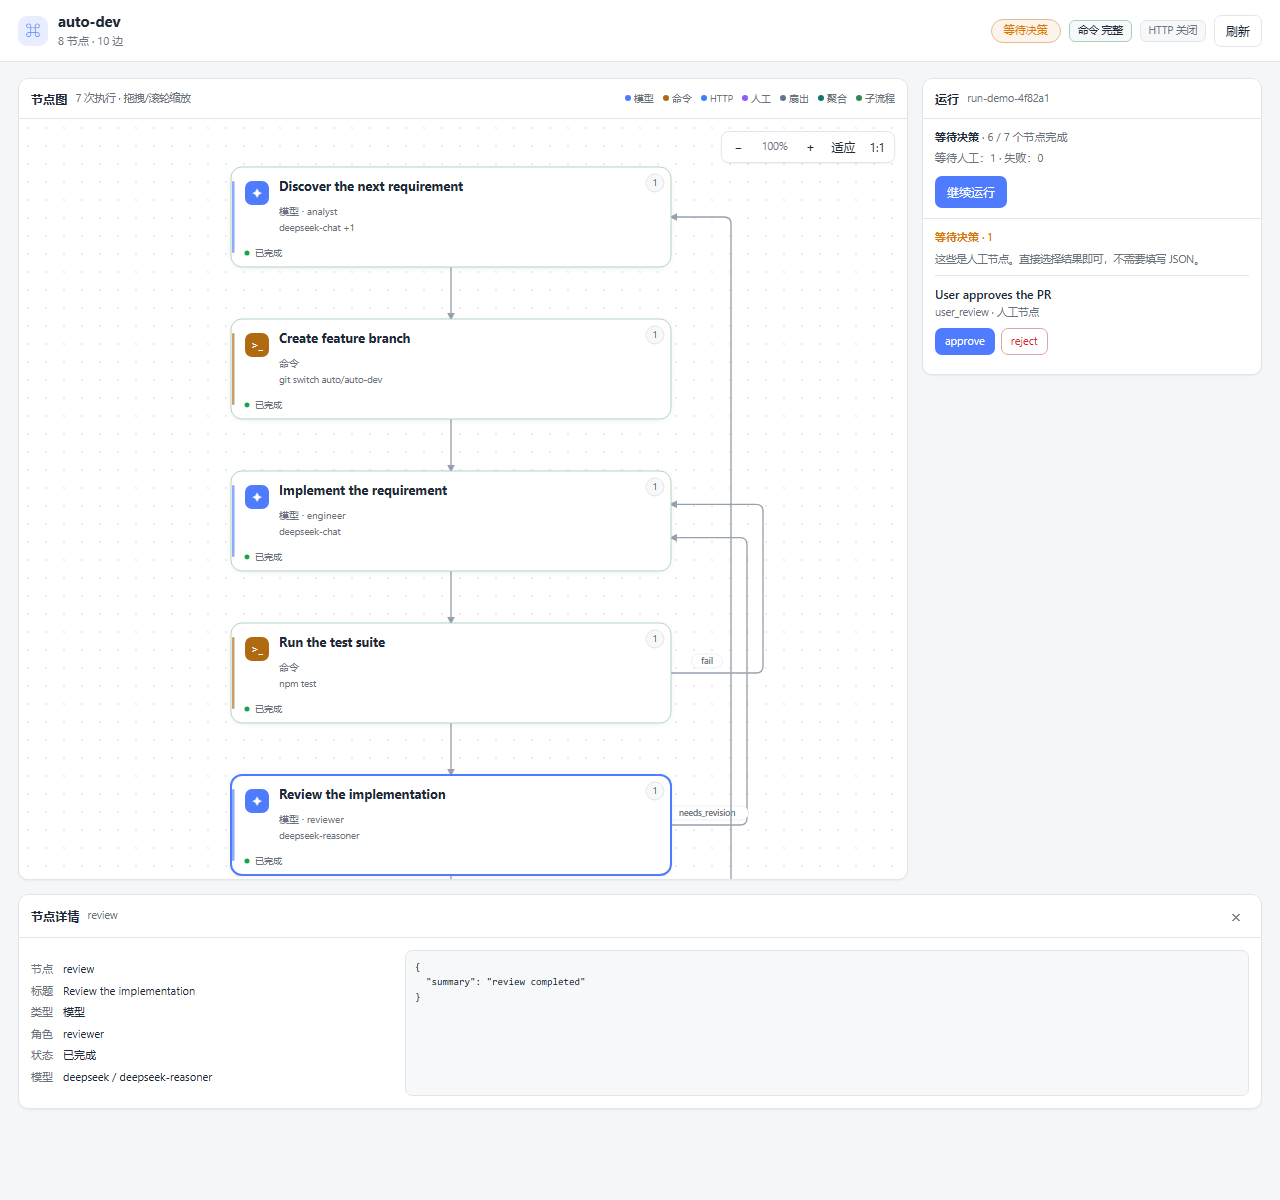
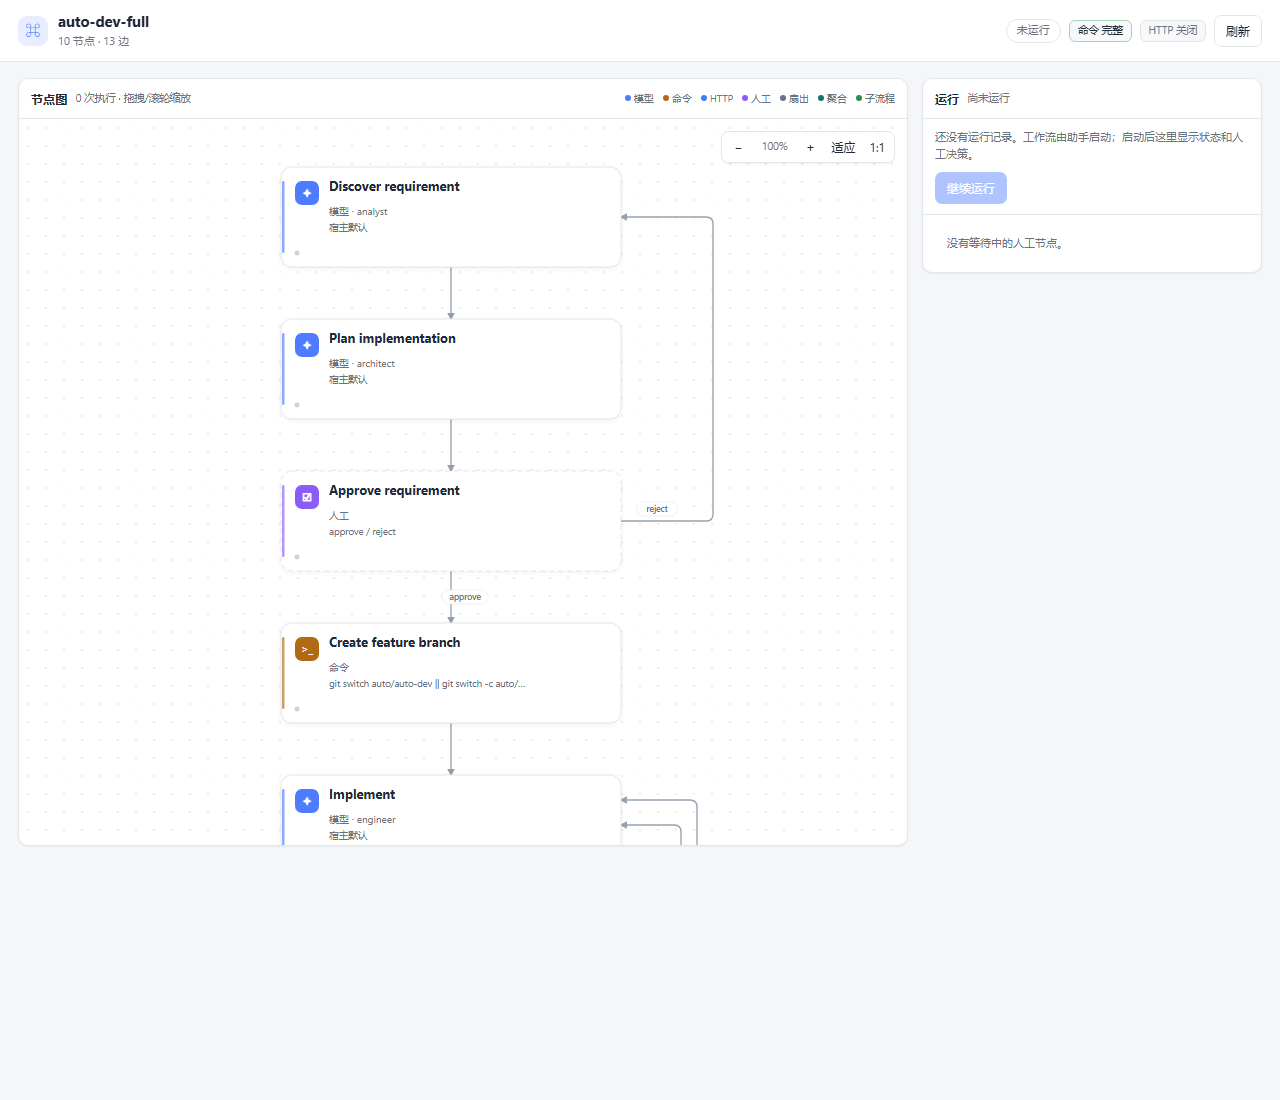
feat: complete dev workflow and narrower nodes
- Add auto-dev-full: discover, plan, requirement gate, branch, implement, tests, review loop, idempotent PR, pending-PR gate and merge.
- Narrow node cards from 440 to 340.
- Clear old runs when a workflow definition is replaced.
- Bump to 2.3.0.

diff --git a/src/v2/board.html b/src/v2/board.html
@@ -452,7 +452,7 @@ button { cursor: pointer; }
   function layout(definition) {
     const { rank, groups, incoming } = longestRanks(definition);
     orderRanks(groups, incoming);
-    const nodeWidth = 440, nodeHeight = 100, gapY = 52, gapX = 24, sidePad = 120, topPad = 28;
+    const nodeWidth = 340, nodeHeight = 100, gapY = 52, gapX = 24, sidePad = 120, topPad = 28;
     const keys = [...groups.keys()].sort((a, b) => a - b);
     const rowWidth = Math.max(nodeWidth, ...keys.map(key => groups.get(key).length * nodeWidth + (groups.get(key).length - 1) * gapX));
     const width = rowWidth + sidePad * 2;
@@ -602,7 +602,7 @@ button { cursor: pointer; }
       const token = byNode.get(node.id);
       const status = tone(token?.status);
       const style = STYLE[node.type] || { color: "#8a929e", glyph: "?" };
-      const titleLines = wrap(node.title || node.id, 366);
+      const titleLines = wrap(node.title || node.id, 266);
       const metaY = node.y + (titleLines.length > 1 ? 58 : 48);
       const detailY = metaY + 16;
       const dotColor = status === "failed" ? "var(--bad)" : status === "wait" ? "var(--warn)" : status === "done" ? "var(--ok)" : status === "running" ? "var(--brand)" : "var(--line-strong)";
@@ -617,8 +617,8 @@ button { cursor: pointer; }
       titleLines.forEach((line, index) => parts.push('<tspan x="' + (node.x + 48) + '" dy="' + (index ? 16 : 0) + '">' + esc(line) + "</tspan>"));
       parts.push("</text>");
       const meta = (TYPE[node.type] || node.type) + (node.role ? " · " + node.role : "");
-      parts.push('<text x="' + (node.x + 48) + '" y="' + metaY + '" class="node-meta">' + esc(clip(meta, 340)) + "</text>");
-      parts.push('<text x="' + (node.x + 48) + '" y="' + detailY + '" class="node-detail-text">' + esc(clip(detailText(node), 370)) + "</text>");
+      parts.push('<text x="' + (node.x + 48) + '" y="' + metaY + '" class="node-meta">' + esc(clip(meta, 260)) + "</text>");
+      parts.push('<text x="' + (node.x + 48) + '" y="' + detailY + '" class="node-detail-text">' + esc(clip(detailText(node), 290)) + "</text>");
       parts.push('<circle cx="' + (node.x + 16) + '" cy="' + (node.y + node.h - 14) + '" r="3.2" fill="' + dotColor + '" stroke="var(--panel)" stroke-width="1.4"/>');
       if (statusLabel) parts.push('<text x="' + (node.x + 24) + '" y="' + (node.y + node.h - 11) + '" class="node-status-label">' + esc(statusLabel) + "</text>");
       const count = counts.get(node.id) || 0;

diff --git a/README.md b/README.md
@@ -220,21 +220,27 @@ subworkflow node completes.
 
 ## Auto-dev reference
 
-[examples/auto-dev.json](examples/auto-dev.json) is a complete requirement→PR→
-user-decision flow:
+[examples/auto-dev-full.json](examples/auto-dev-full.json) is the complete
+development flow:
 
-`discover` → `branch` → `implement` → `npm test` → `review`
-(→ implement on `needs_revision`) → open PR → human decision → merge.
+`discover` → `plan` → `Approve requirement` (human) → `branch` → `implement` →
+`npm test` → `review` (→ implement on `needs_revision` or test failure) → open PR
+→ `Review pending PR` (human) → merge. Rejecting the requirement loops back to
+discovery; rejecting the PR loops back to implementation.
 
 It requires a command grant for `npm` and `gh`, a configured `gh` login, and a
-session whose cwd is the target repository. The flow is serial: a `team_workflow_run`
-call executes it until the human node; the web board or another run call continues
-after the decision. `gh pr create` is intentionally one-shot in this example;
-re-running on a branch that already has a PR fails the `pr` node.
+session whose cwd is the target repository. The PR step is idempotent: it commits
+when there are staged changes, creates the PR only when needed, and resolves the
+existing PR URL. `team_workflow_run` executes until a human node; the web board
+or another run call continues after the decision.
 
-This is a single-seed flow. A persistent public seed pool and a pending-PR pool
-are not runtime primitives yet: each run starts from its input, and human
-decisions are per run. Use one run per seed until those queue primitives land.
+[examples/auto-dev.json](examples/auto-dev.json) is the smaller discovery →
+branch → implement → test → review → PR → human decision → merge variant.
+
+These are single-seed flows. A persistent public seed pool and a pending-PR pool
+are not runtime primitives yet: each run starts from its input, the requirement
+gate is the seed decision, and the pending PR is represented by the `pr_review`
+human node. Use one run per seed until queue primitives land.
 
 ## Web board
 

diff --git a/CHANGELOG.md b/CHANGELOG.md
@@ -1,5 +1,15 @@
 # Changelog
 
+## 2.3.0
+
+- Narrow node cards from 440 to 340 while keeping the two-line title and
+  metadata layout.
+- Add `examples/auto-dev-full.json`: a complete 10-node development flow with
+  discovery, planning, requirement approval, branch, implementation, tests,
+  review loop, idempotent PR, pending-PR review and merge.
+- Clear stored runs when a workflow definition is replaced, so an old run cannot
+  render against the new graph.
+
 ## 2.2.0
 
 - Remove the board's start-parameter form and new-run control. The assistant
